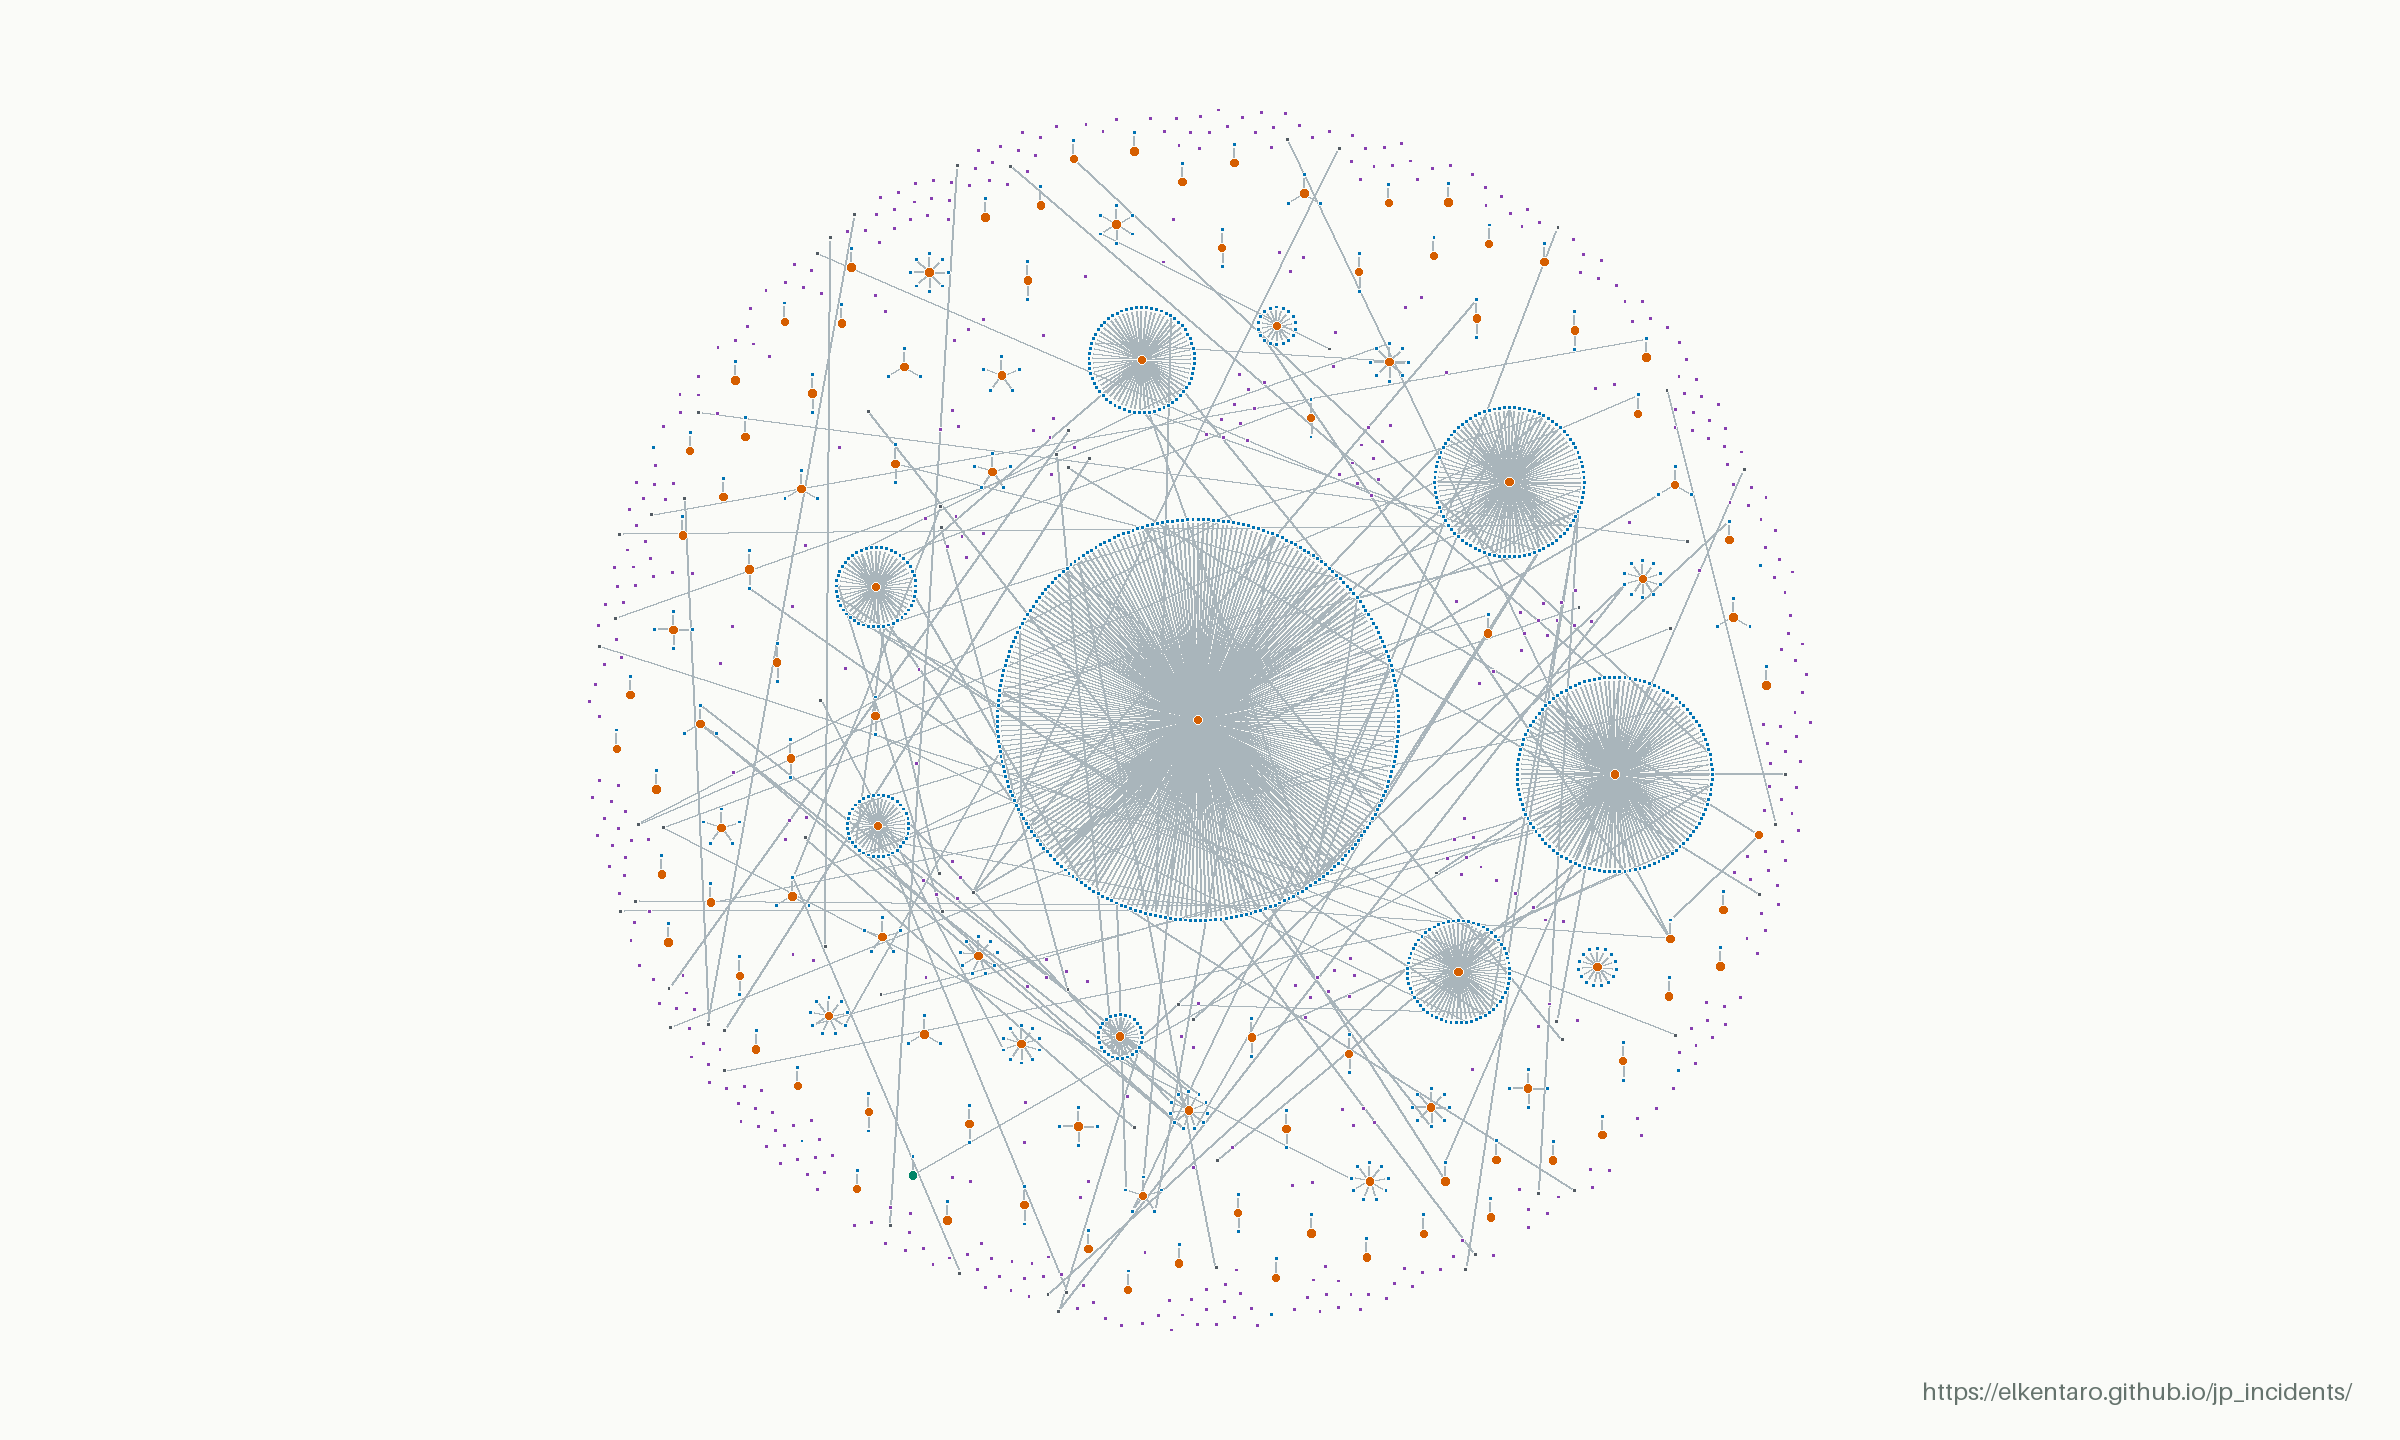
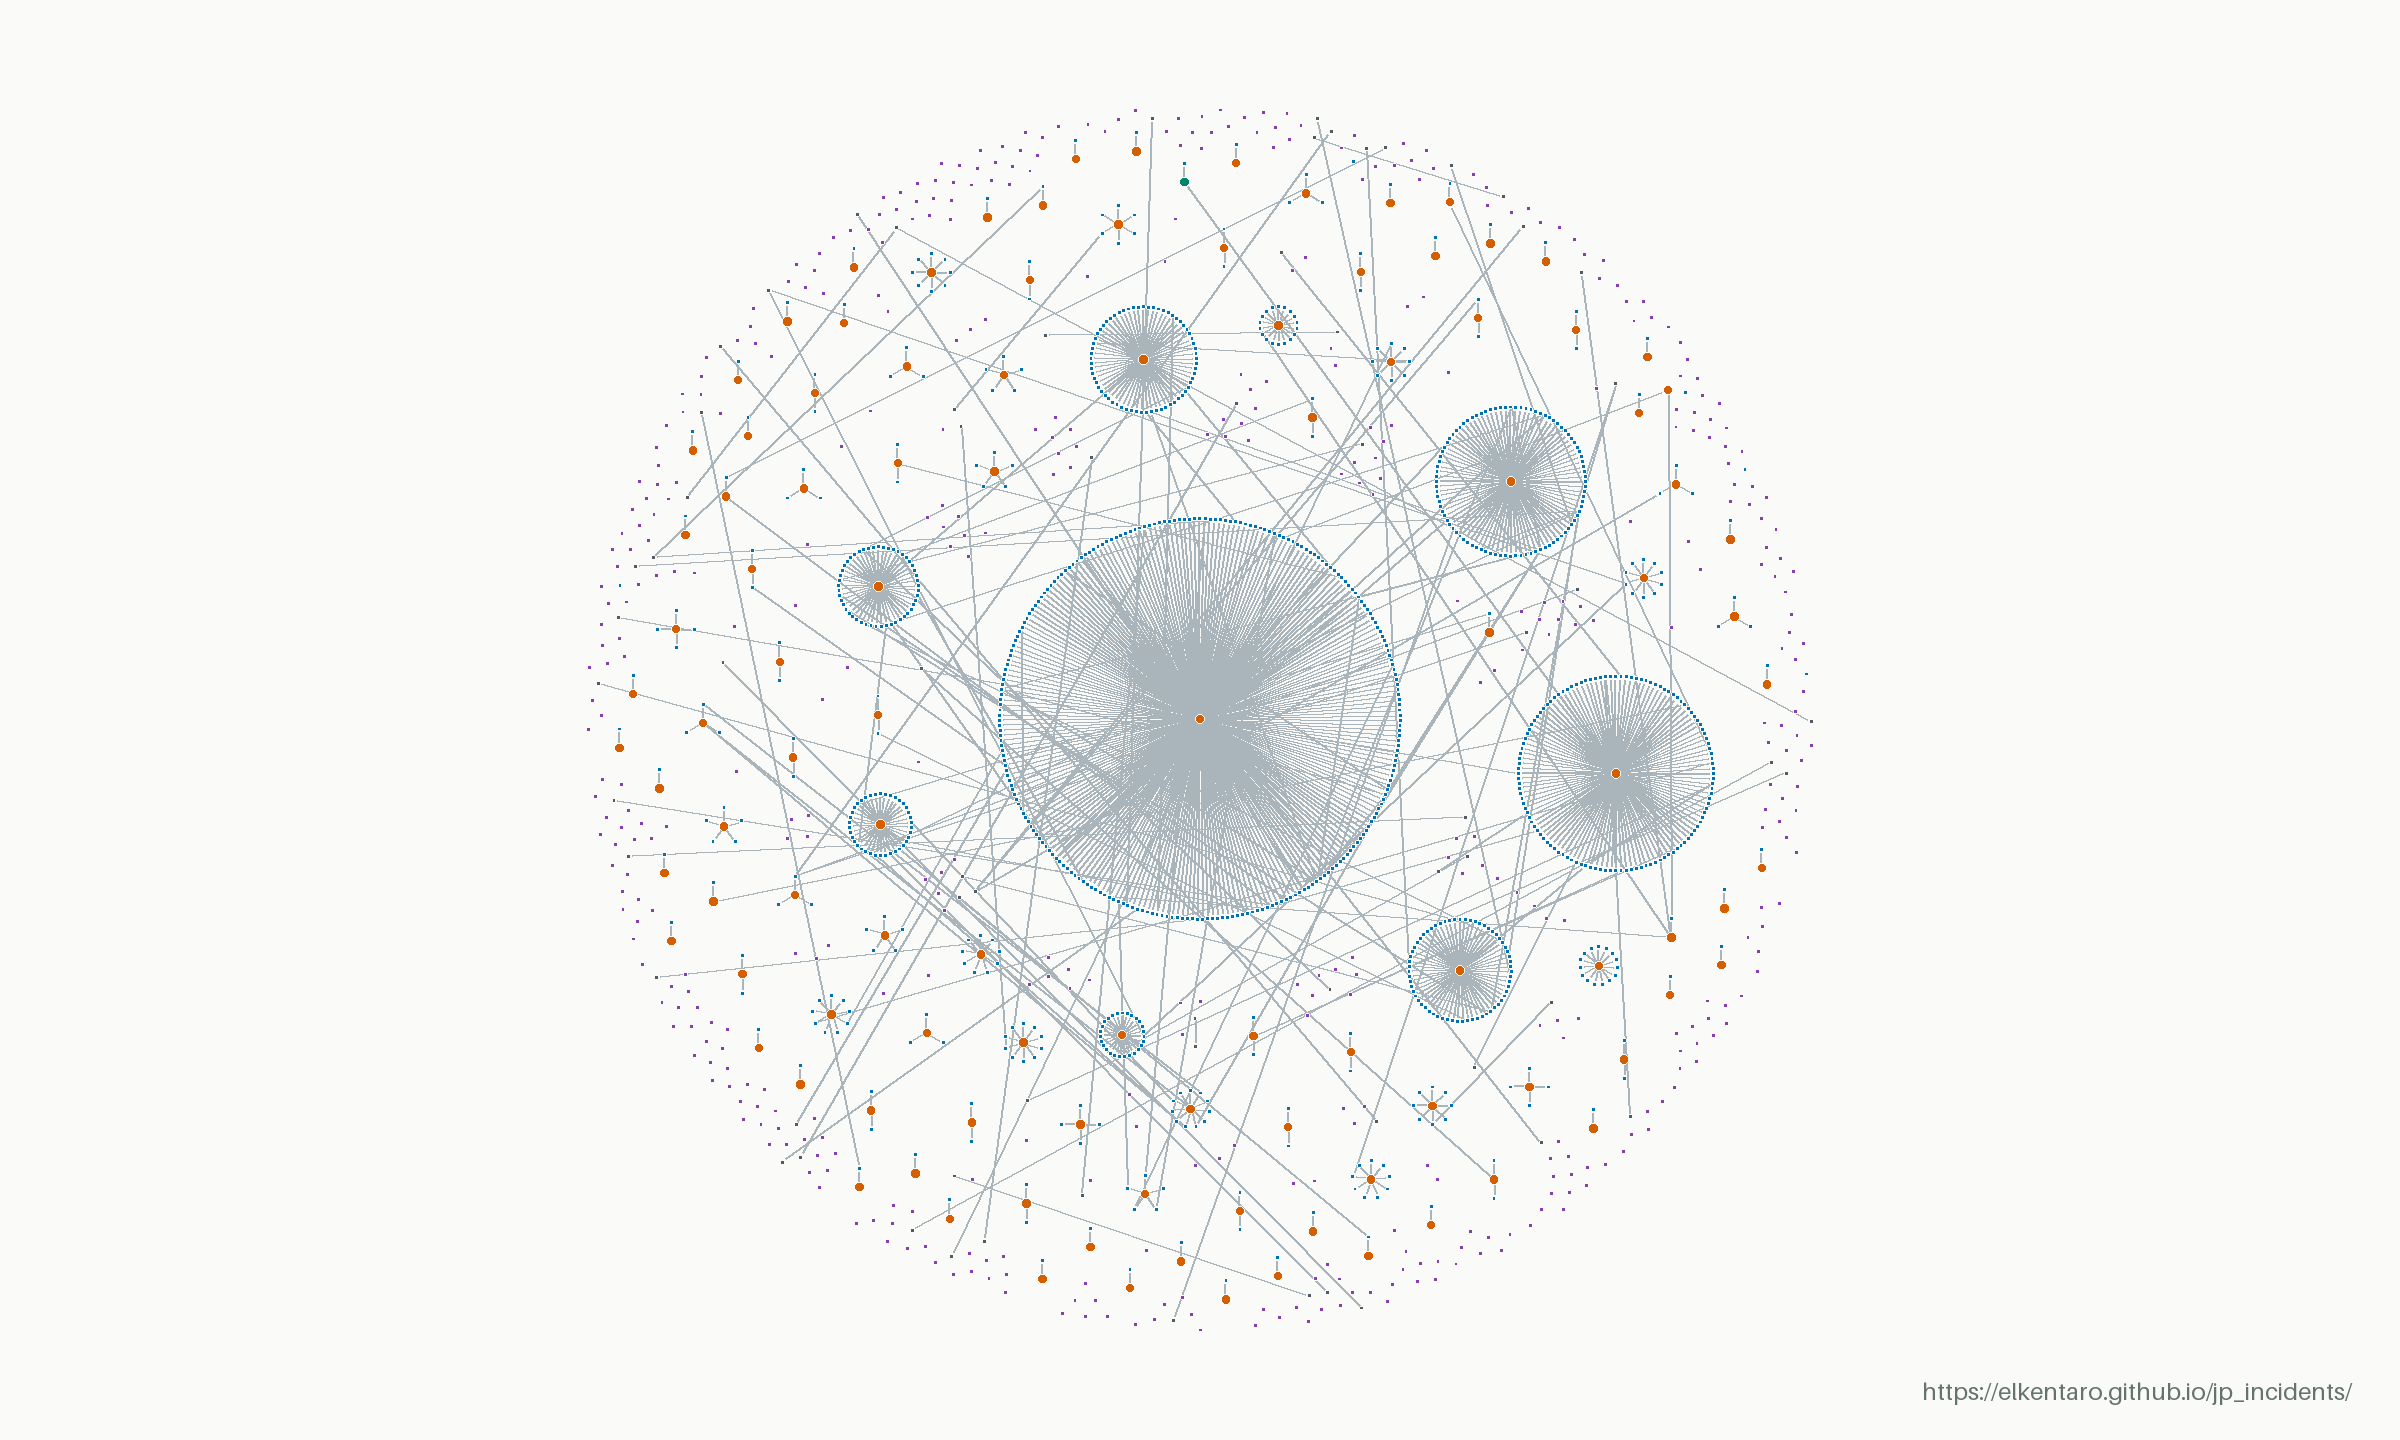
Update incident data (2026-11-26 04:17 UTC)

diff --git a/linkage.html b/linkage.html
@@ -32,17 +32,17 @@
     </section>
     <section class="direct-summary" aria-labelledby="direct-title">
       <dl class="direct-stats">
-        <div class="direct-total"><dt id="direct-title" data-copy="direct">Direct incidents</dt><dd id="direct-count">643</dd></div>
+        <div class="direct-total"><dt id="direct-title" data-copy="direct">Direct incidents</dt><dd id="direct-count">644</dd></div>
         <div><dt data-copy="directUpstream">Upstream incidents</dt><dd id="upstream-count">108</dd></div>
-        <div><dt data-copy="directStandalone">Standalone incidents</dt><dd id="standalone-count">535</dd></div>
+        <div><dt data-copy="directStandalone">Standalone incidents</dt><dd id="standalone-count">536</dd></div>
       </dl>
-      <p class="direct-excluded"><strong id="downstream-count">982</strong> <span data-copy="directExcluded">downstream records excluded, including incidents with both roles.</span></p>
+      <p class="direct-excluded"><strong id="downstream-count">983</strong> <span data-copy="directExcluded">downstream records excluded, including incidents with both roles.</span></p>
       <p class="direct-definition" data-copy="directDefinition">Direct incidents = upstream + standalone, based on recorded causal links. Standalone incidents have no upstream or downstream causal links, but may have other links, such as separate events at the same organization.</p>
     </section>
     <dl class="map-stats">
-      <div><dt data-copy="total">Incidents in snapshot</dt><dd>1625</dd></div>
-      <div><dt data-copy="linked">With recorded connections</dt><dd>1150</dd></div>
-      <div><dt data-copy="links">Recorded connections</dt><dd>1105</dd></div>
+      <div><dt data-copy="total">Incidents in snapshot</dt><dd>1627</dd></div>
+      <div><dt data-copy="linked">With recorded connections</dt><dd>1152</dd></div>
+      <div><dt data-copy="links">Recorded connections</dt><dd>1107</dd></div>
       <div><dt data-copy="networks">Connected networks</dt><dd>92</dd></div>
     </dl>
     <figure class="map-figure">
@@ -50,7 +50,7 @@
         <img src="data/linkage-map.png" width="2400" height="1440" alt="Anonymized incident map. Orange upstream hubs connect to blue downstream incidents; purple unlinked incidents appear throughout the same map without connecting lines." data-copy-alt="alt">
       </div>
       <figcaption>
-        <div class="map-caption-meta"><span><span data-copy="updated">Last updated</span>: <time datetime="2026-11-26T03:16:09.799124+00:00">2026-11-26 03:16 UTC</time></span><a href="data/linkage-map.png" target="_blank" rel="noopener" data-copy="open">Open full-resolution image ↗</a></div>
+        <div class="map-caption-meta"><span><span data-copy="updated">Last updated</span>: <time datetime="2026-11-26T04:16:07.436740+00:00">2026-11-26 04:16 UTC</time></span><a href="data/linkage-map.png" target="_blank" rel="noopener" data-copy="open">Open full-resolution image ↗</a></div>
         <div class="map-key-section">
           <strong id="map-key-title" data-copy="key">Key</strong>
           <ul class="map-key" aria-labelledby="map-key-title">
@@ -69,7 +69,7 @@
       <section><h2 data-copy="readingTitle">Reading the map</h2><p data-copy="reading">Orange marks upstream incidents, blue downstream incidents, and purple unlinked incidents with no recorded connection. Teal marks incidents with both upstream and downstream roles; charcoal marks other related incidents. A missing connection does not establish that two incidents are unrelated.</p></section>
       <section><h2 data-copy="snapshotTitle">About this snapshot</h2><p data-copy="snapshot">The static image is refreshed when published incidents or relationships change, and at least every 24 hours during normal publication. Larger upstream clusters have extra spacing to keep their victims apart. Names, incident IDs, source links and incident dates are omitted; the connection pattern is retained. It is an overview of recorded relationships, not a complete map of cyber incidents in Japan.</p></section>
     </div>
-    <p class="map-source"><span data-copy="sourceUpdated">Source data updated</span>: <time datetime="2026-11-26T03:16:09+00:00">2026-11-26T03:16:09+00:00</time> · <a href="./" data-copy="browse">Browse the incident index</a></p>
+    <p class="map-source"><span data-copy="sourceUpdated">Source data updated</span>: <time datetime="2026-11-26T04:16:07+00:00">2026-11-26T04:16:07+00:00</time> · <a href="./" data-copy="browse">Browse the incident index</a></p>
   </main>
   <footer><div class="shell footer-inner"><p data-copy="footer">Public reports. Recorded relationships. An anonymized overview.</p><a href="./" data-copy="back">Back to incidents</a></div></footer>
   <script src="linkage.js?v=20261107-spacing" defer></script>
